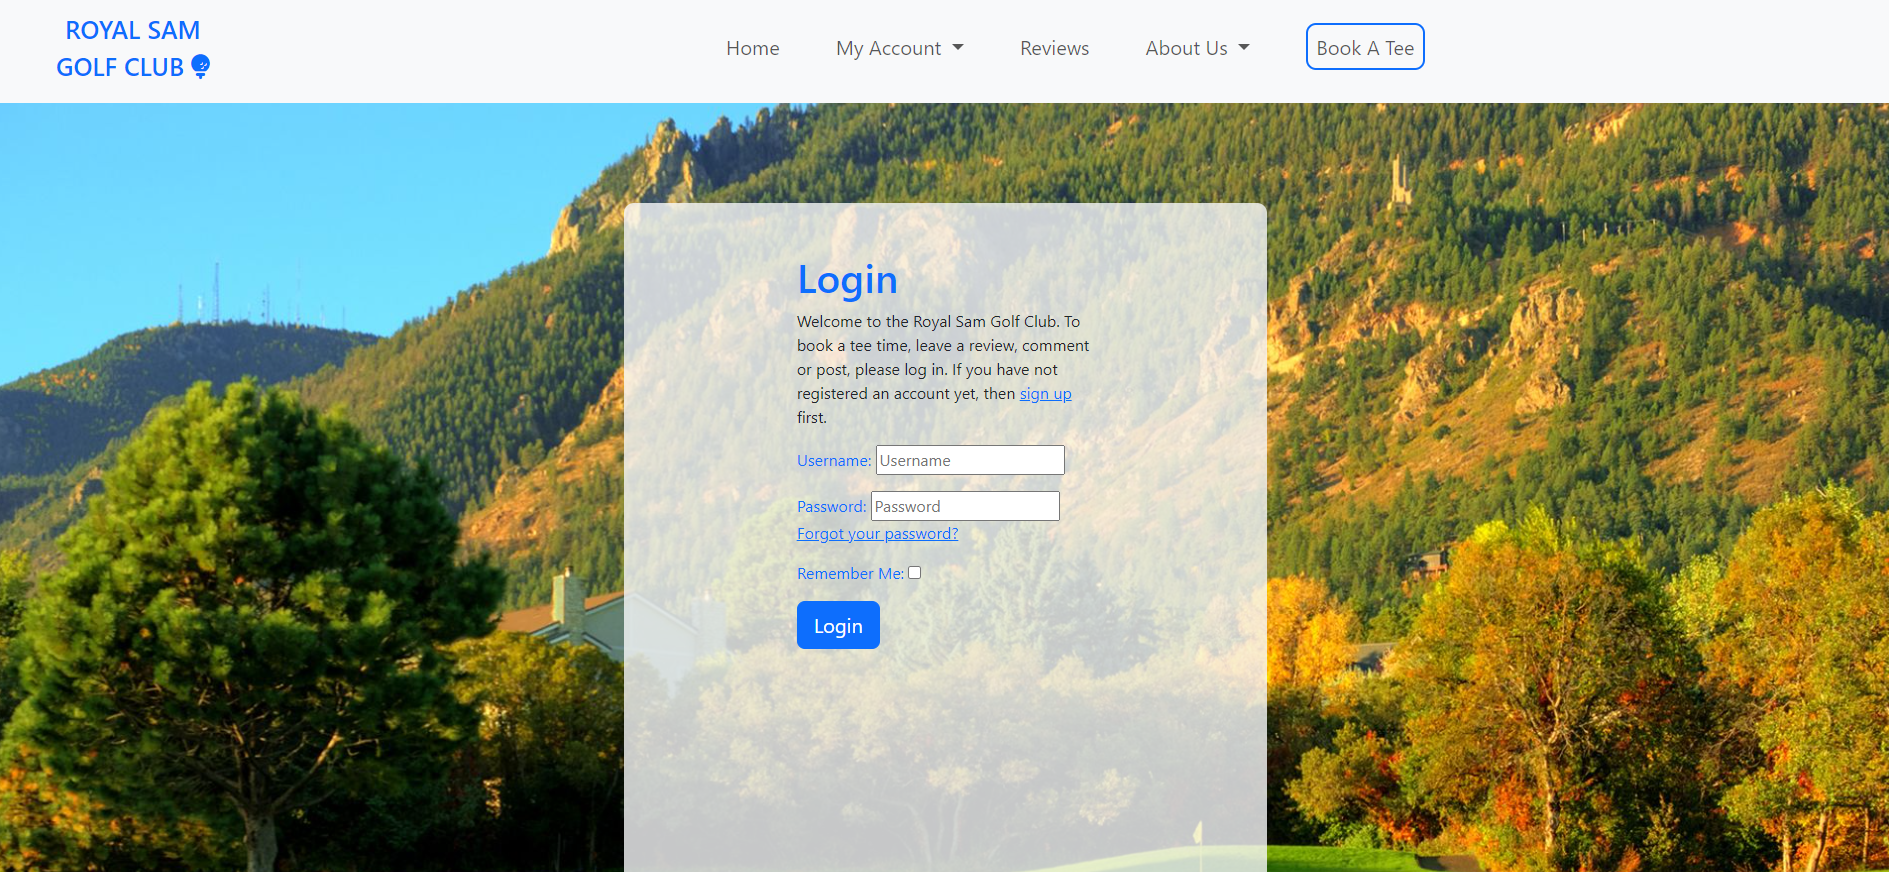
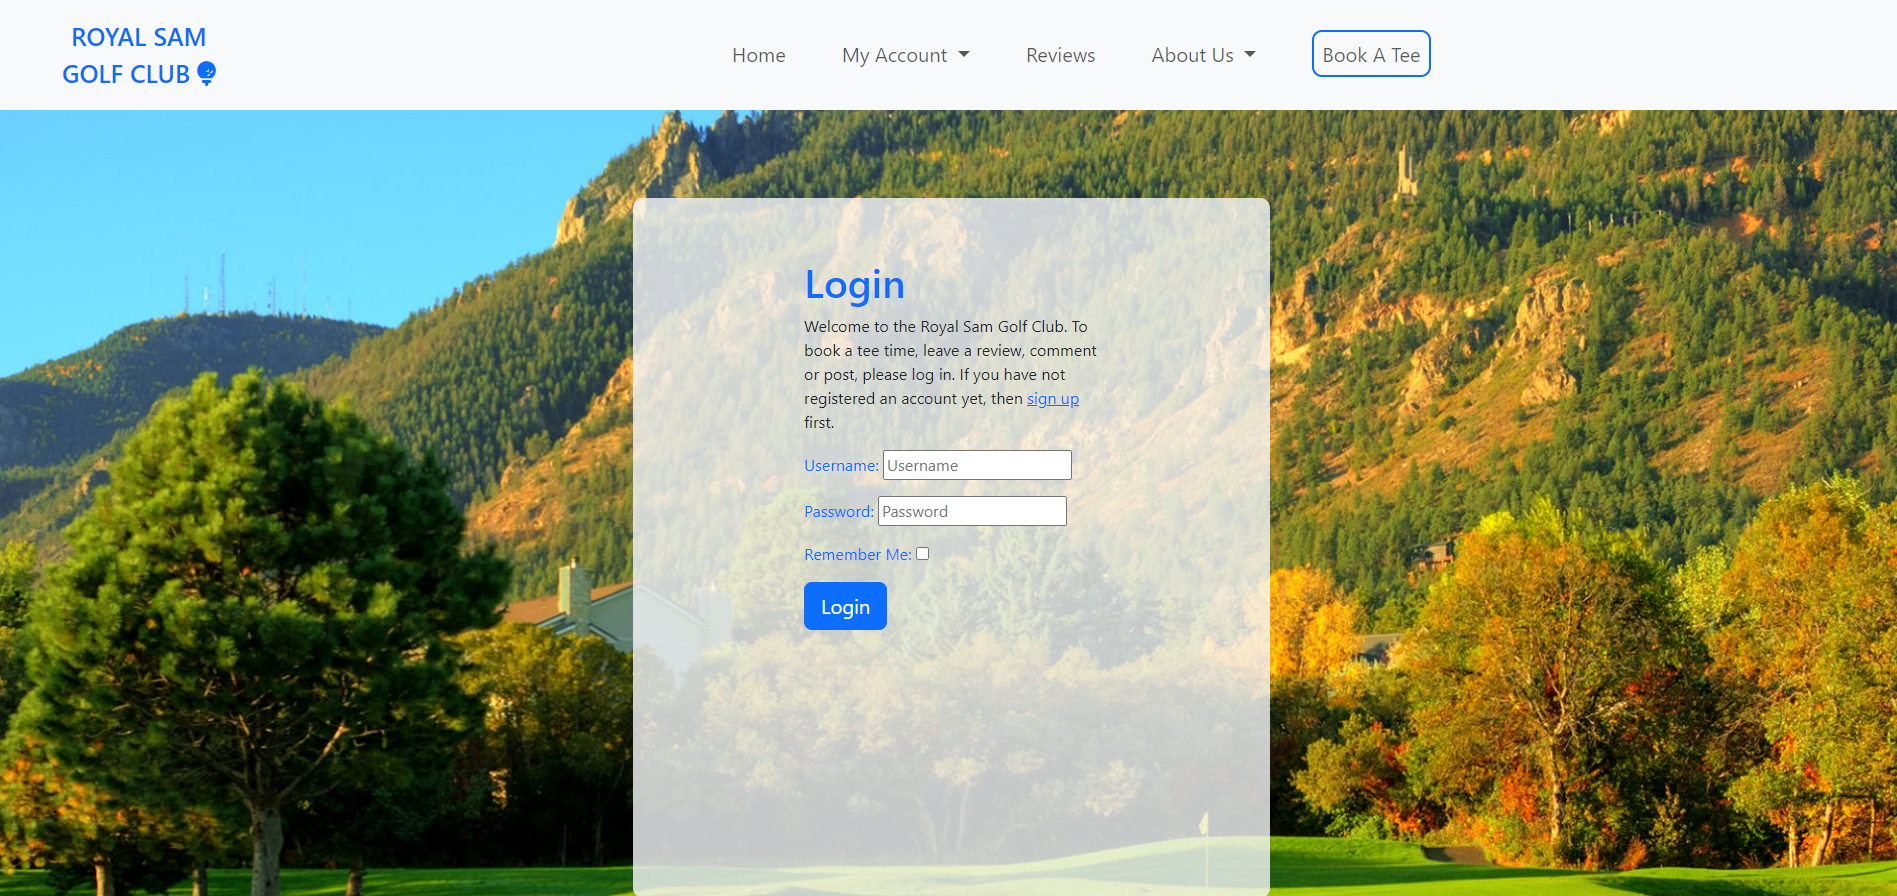
Update login and signup html files to remove validation errors

diff --git a/templates/allauth/account/login.html b/templates/allauth/account/login.html
@@ -8,7 +8,7 @@
     </div>
   </div>
   <div class="row justify-content-center">
-    <div class="col col-md-6 text-dark">
+    <div class="col-md-6 text-dark">
       <p>
         {% blocktrans %}Welcome to the Royal Sam Golf Club. To book a tee time,
         leave a review, comment or post, please log in. If you have not
@@ -18,34 +18,24 @@
     </div>
   </div>
   <div class="row justify-content-center">
-    <div class="col col-md-6 text-white">
-      <form
-        action="{% url 'account_login' %}"
-        class="login text-primary"
-        method="POST"
-      >
-        {% url 'account_login' as login_url %} 
-        {% element form form=form method="post" action=login_url tags="entrance,login" %} 
-        {% slot body %}
-        {%csrf_token %} {%element fields form=form unlabeled=True %} 
-        {% endelement %} {% if redirect_field_value %}
-        <input
-          type="hidden"
-          name="{{ redirect_field_name }}"
-          value="{{ redirect_field_value }}"
-        />
-        {% endif %} {% endslot %} {% slot actions %}
-        <button
-          class="btn btn-primary btn-lg mb-5"
-          type="submit"
-          tags="prominent,login"
-        >
-          {% trans "Login" %}
-        </button>
+    <div class="col col-md-6 text-primary">
+      {% url 'account_login' as login_url %} 
+      {% element form form=form method="post" action=login_url tags="entrance,login" %} 
+      {% slot body %} {%csrf_token %} 
+      {%element fields form=form unlabeled=True %} {% endelement %} 
+      {% if redirect_field_value %}
+      <input
+        type="hidden"
+        name="{{ redirect_field_name }}"
+        value="{{ redirect_field_value }}"
+      />
+      {% endif %} {% endslot %} {% slot actions %}
+      <button class="btn btn-primary btn-lg mb-5" type="submit">
+        {% trans "Login" %}
+      </button>
 
-        {% endslot %} {% endelement %} 
-        {% include "socialaccount/snippets/login.html" with page_layout="entrance" %}
-      </form>
+      {% endslot %} {% endelement %}
+      {% include "socialaccount/snippets/login.html" with page_layout="entrance" %}
     </div>
   </div>
 </div>

diff --git a/templates/allauth/account/signup.html b/templates/allauth/account/signup.html
@@ -16,33 +16,27 @@
     </div>
   </div>
   <div class="row justify-content-center">
-    <div class="col col-md-6 text-white">
-      <form
-        action="{% url 'account_signup' %}"
-        class="login text-primary"
-        method="POST"
+    <div class="col-md-6 text-primary">
+      {% url 'account_signup' as action_url %} 
+      {% element form form=form method="post" action=action_url tags="entrance,signup" %} 
+      {% slot body %} {% csrf_token %} 
+      {% element fields form=form unlabeled=True %} {% endelement %} 
+      {% if redirect_field_value %}
+      <input
+        type="hidden"
+        name="{{ redirect_field_name }}"
+        value="{{ redirect_field_value }}"
+      />
+      {% endif %} {% endslot %} {% slot actions %}
+      <button
+        class="btn btn-primary btn-lg mb-5 mt-3"
+        type="submit"
+        data-tags="prominent, signup"
       >
-        {% url 'account_signup' as action_url %} 
-        {% element form form=form method="post" action=action_url tags="entrance,signup" %} 
-        {% slot body %} {% csrf_token %} 
-        {% element fields form=form unlabeled=True %} {% endelement %} 
-        {% if redirect_field_value %}
-        <input
-          type="hidden"
-          name="{{ redirect_field_name }}"
-          value="{{ redirect_field_value }}"
-        />
-        {% endif %} {% endslot %} {% slot actions %}
-        <button
-          class="btn btn-primary btn-lg mb-5 mt-3"
-          type="submit"
-          tags="prominent, signup"
-        >
-          {% trans "Register" %}
-        </button>
-        {% endslot %} {% endelement %} 
-        {% include "socialaccount/snippets/login.html" with page_layout="entrance" %}
-      </form>
+        {% trans "Register" %}
+      </button>
+      {% endslot %} {% endelement %} 
+      {% include "socialaccount/snippets/login.html" with page_layout="entrance" %}
     </div>
   </div>
 </div>

diff --git a/templates/base.html b/templates/base.html
@@ -250,7 +250,7 @@
         let messages = document.getElementById("msg");
         let alert = new bootstrap.Alert(messages);
         alert.close();
-      }, 8000);
+      }, 4000);
     </script>
   </body>
 </html>

diff --git a/royalsam/settings.py b/royalsam/settings.py
@@ -29,7 +29,7 @@ TEMPLATES_DIR = os.path.join(BASE_DIR, 'templates')
 SECRET_KEY = os.environ.get('SECRET_KEY')
 
 # SECURITY WARNING: don't run with debug turned on in production!
-DEBUG = False
+DEBUG = True
 
 ALLOWED_HOSTS = ['8000-sam2829-project-4-royal-k3x6n4q3si.us2.codeanyapp.com',
                  'royal-sam-02fa0ed9cfe2.herokuapp.com']
